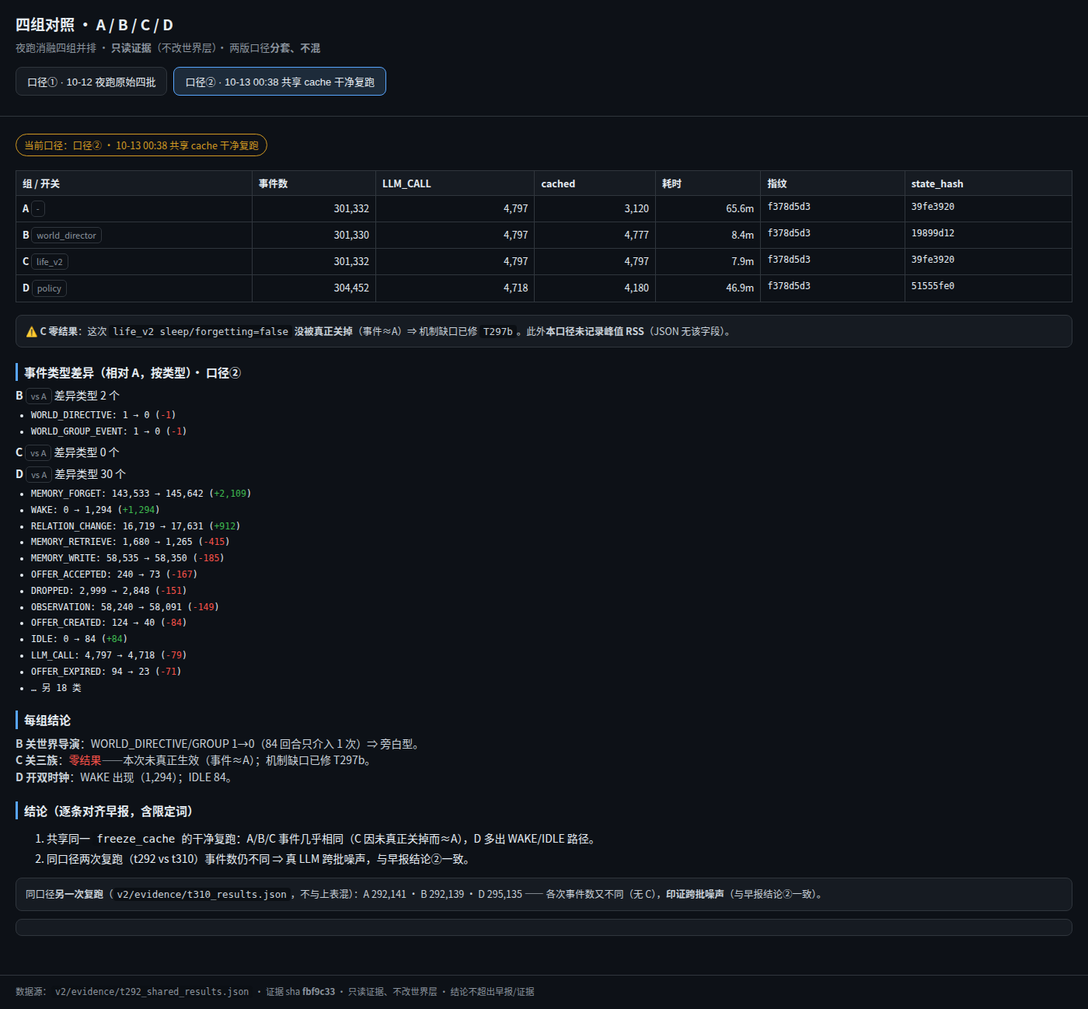
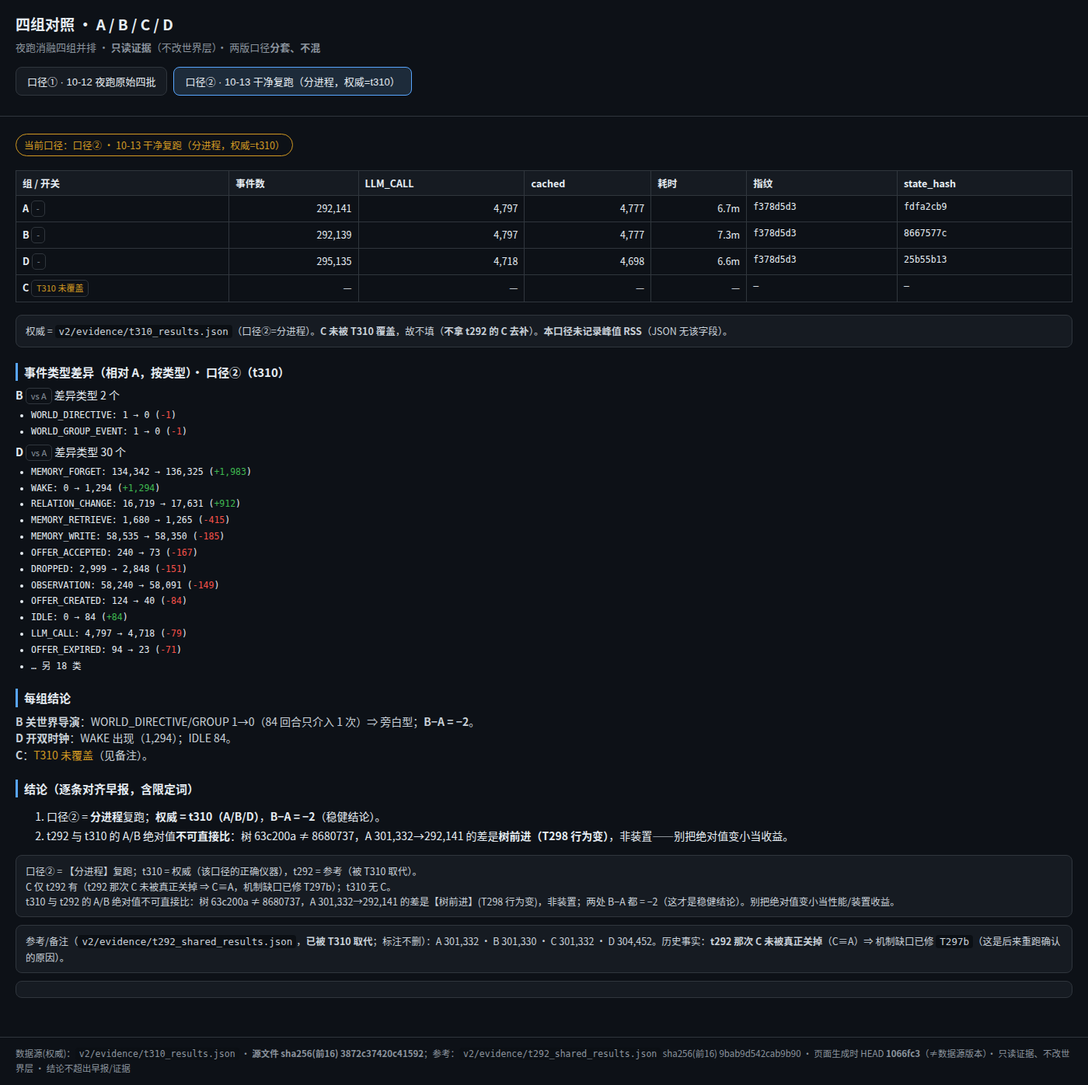
T343 [frontend-dev]: 批1修订v2 口径②主表换权威t310(C标未覆盖)+t292降参考+页脚数据源文件sha+重出PNG -- code/frontend/{fourgroups.html,tools/gen_fourgroups.py} v2/evidence/T343-fourgroups*.md v2/evidence/T343-fourgroups*.png

diff --git a/code/frontend/fourgroups.html b/code/frontend/fourgroups.html
@@ -48,7 +48,7 @@
 </main>
 <footer id="foot"></footer>
 <script>
-const DATA = {"d1": {"label": "口径① · 10-12 夜跑原始四批", "source": "v2/evidence/nightly-20261012-morning-report.md", "runtime": "各 80–90 分钟（19:01 起）", "rss_note": "峰值 RSS 来自早报 §1", "groups": {"A": {"name": "A 基线", "sw": "-", "status": "SUCCESS", "events": 301384, "llm": 4794, "rss": "383MB", "time": "80m", "fp": "f1ea31a3", "sh": "a8b6da39"}, "B": {"name": "B 关世界导演", "sw": "world_director.enabled=false", "status": "SUCCESS", "events": 301395, "llm": 4794, "rss": "436MB", "time": "80m", "fp": "a89546fd", "sh": "07046536"}, "C": {"name": "C 关三族", "sw": "life_v2 sleep/forgetting=false", "status": "SUCCESS", "events": 151968, "llm": 4794, "rss": "310MB", "time": "80m", "fp": "f8d3f0a8", "sh": "dd1c7906"}, "D": {"name": "D 开双时钟", "sw": "wake.enabled=true", "status": "SUCCESS", "events": 304607, "llm": 4718, "rss": "382MB", "time": "90m", "fp": "adaede05", "sh": "b7c21436"}}, "diffs": {"B": ["WORLD_DIRECTIVE 1→0、WORLD_GROUP_EVENT 1→0（84 回合只介入 1 次）", "PERSONA_DRIFT 0→9", "MEMORY_FORGET +4"], "C": ["事件 301,384 → 151,968（≈ 半）"], "D": ["（早报未逐类列出；见口径② 的同类对照）"]}, "diff_head": "类型差异（早报 §2 明示项；口径①未逐类全列）", "concl": {"A": "基线", "B": "旁白型：84 回合只介入 1 次，且两类在 replay 属 _NOOP_TYPES、不改世界状态 ⇒ 非 D3 要的『宏观群体事件』", "C": "★ 第一条真实消融效应：关睡眠/遗忘/人格三族 → 事件 ≈ 半", "D": "开双时钟（wake.enabled=true）"}, "notes": ["全部 provider=openai_compat、无 mock 混入；每批 rc=0。", "冻结 sha 6a5f14e；底座指纹 sha256:f1ea31a3…（= A 日志 WORLD_INIT）。"]}, "d2": {"label": "口径② · 10-13 00:38 共享 cache 干净复跑", "source": "v2/evidence/t292_shared_results.json", "groups": {"A": {"tag": "A", "override": {}, "events": 301332, "llm_calls": 4797, "cached": 3120, "providers": {"openai_compat": 4797}, "fingerprint": "sha256:f378d5d3eb0d4e726c9436d9ed82cc88706b441a3109e2fbb5878c6cf30afdf7", "secs": 3937.2, "state_hash": "sha256:39fe39207f8ed714191ed37c32cf7d63c93aa6c518e1cee95ac9f76b86e9462f", "chain_ok": true, "replay_parity": true, "WORLD_DIRECTIVE": 1, "WORLD_GROUP_EVENT": 1, "PERSONA_DRIFT": 0, "MEMORY_FORGET": 143533, "WAKE": 0, "IDLE": 0, "type_counts": {"ACTIVITY_COMPLETED": 540, "ACTIVITY_STARTED": 560, "AGENT_BORN": 20, "AGENT_DIED": 17, "AGENT_REVIVED": 5, "CONFLICT_RESOLVED": 44, "CONFLICT_STARTED": 44, "CONSUME": 167, "DEPOSIT": 18, "DROPPED": 2999, "EXCHANGE_SETTLED": 25, "GOAL_ACHIEVED": 28, "GOAL_PROGRESS": 250, "GOAL_SET": 39, "GROUP_CREATED": 69, "INIT_ENDOW": 40, "INTENT_REJECTED": 40, "INTEREST_CHARGED": 192, "LLM_CALL": 4797, "LLM_JUDGMENT": 1010, "LOAN_DEFAULT": 7, "LOAN_ISSUED": 17, "LOAN_REPAY": 40, "MARKET_TRADE": 23, "MEMORY_CONSOLIDATE": 2784, "MEMORY_FORGET": 143533, "MEMORY_REFLECT": 140, "MEMORY_RETRIEVE": 1680, "MEMORY_WRITE": 58535, "METABOLISM": 1577, "MONEY_BURNED": 40, "MONEY_MINTED": 3, "MSG_DM": 163, "MSG_GROUP": 8, "MSG_PUBLIC": 59, "NARRATIVE": 20, "NEED_UPDATE": 3399, "NORM_ADOPTED": 19, "NORM_PROPOSED": 19, "OBSERVATION": 58240, "OFFER_ACCEPTED": 240, "OFFER_COUNTERED": 10, "OFFER_CREATED": 124, "OFFER_EXPIRED": 94, "OFFER_REJECTED": 11, "PENALTY_APPLIED": 1, "PLACE_ARRIVED": 511, "PLACE_MOVE": 511, "PRODUCE": 167, "RANKING_EMITTED": 10, "RELATION_CHANGE": 16719, "RELATION_ENCOUNTER": 210, "REVIVE_FEE_PAID": 5, "ROLE_CHANGE": 9, "SCHEDULE_PLANNED": 20, "SCORE_POSTED": 80, "SERVICE_DELIVERED": 149, "SKILL_LEVEL_UP": 79, "SKILL_OUTPUT": 10, "SKILL_PRACTICE": 77, "SLEEP_COMPLETED": 140, "SLEEP_STARTED": 140, "STATE_CHANGE": 94, "TAG_EMITTED": 540, "TAX_LEVIED": 46, "TIME_MARK": 7, "TRANSFER": 31, "TURN_SEAL": 84, "WORLD_DIRECTIVE": 1, "WORLD_GROUP_EVENT": 1, "WORLD_INIT": 1}}, "B": {"tag": "B", "override": {"world_director": {"enabled": false}}, "events": 301330, "llm_calls": 4797, "cached": 4777, "providers": {"openai_compat": 4797}, "fingerprint": "sha256:f378d5d3eb0d4e726c9436d9ed82cc88706b441a3109e2fbb5878c6cf30afdf7", "secs": 502.8, "state_hash": "sha256:19899d121d98390850e4f5ddf9e67b899c6fe56eb6a0610dfc845a5d854b25ba", "chain_ok": true, "replay_parity": true, "WORLD_DIRECTIVE": 0, "WORLD_GROUP_EVENT": 0, "PERSONA_DRIFT": 0, "MEMORY_FORGET": 143533, "WAKE": 0, "IDLE": 0, "type_counts": {"ACTIVITY_COMPLETED": 540, "ACTIVITY_STARTED": 560, "AGENT_BORN": 20, "AGENT_DIED": 17, "AGENT_REVIVED": 5, "CONFLICT_RESOLVED": 44, "CONFLICT_STARTED": 44, "CONSUME": 167, "DEPOSIT": 18, "DROPPED": 2999, "EXCHANGE_SETTLED": 25, "GOAL_ACHIEVED": 28, "GOAL_PROGRESS": 250, "GOAL_SET": 39, "GROUP_CREATED": 69, "INIT_ENDOW": 40, "INTENT_REJECTED": 40, "INTEREST_CHARGED": 192, "LLM_CALL": 4797, "LLM_JUDGMENT": 1010, "LOAN_DEFAULT": 7, "LOAN_ISSUED": 17, "LOAN_REPAY": 40, "MARKET_TRADE": 23, "MEMORY_CONSOLIDATE": 2784, "MEMORY_FORGET": 143533, "MEMORY_REFLECT": 140, "MEMORY_RETRIEVE": 1680, "MEMORY_WRITE": 58535, "METABOLISM": 1577, "MONEY_BURNED": 40, "MONEY_MINTED": 3, "MSG_DM": 163, "MSG_GROUP": 8, "MSG_PUBLIC": 59, "NARRATIVE": 20, "NEED_UPDATE": 3399, "NORM_ADOPTED": 19, "NORM_PROPOSED": 19, "OBSERVATION": 58240, "OFFER_ACCEPTED": 240, "OFFER_COUNTERED": 10, "OFFER_CREATED": 124, "OFFER_EXPIRED": 94, "OFFER_REJECTED": 11, "PENALTY_APPLIED": 1, "PLACE_ARRIVED": 511, "PLACE_MOVE": 511, "PRODUCE": 167, "RANKING_EMITTED": 10, "RELATION_CHANGE": 16719, "RELATION_ENCOUNTER": 210, "REVIVE_FEE_PAID": 5, "ROLE_CHANGE": 9, "SCHEDULE_PLANNED": 20, "SCORE_POSTED": 80, "SERVICE_DELIVERED": 149, "SKILL_LEVEL_UP": 79, "SKILL_OUTPUT": 10, "SKILL_PRACTICE": 77, "SLEEP_COMPLETED": 140, "SLEEP_STARTED": 140, "STATE_CHANGE": 94, "TAG_EMITTED": 540, "TAX_LEVIED": 46, "TIME_MARK": 7, "TRANSFER": 31, "TURN_SEAL": 84, "WORLD_INIT": 1}}, "C": {"tag": "C", "override": {"life_v2": {"sleep": {"enabled": false}, "forgetting": {"enabled": false}}}, "events": 301332, "llm_calls": 4797, "cached": 4797, "providers": {"openai_compat": 4797}, "fingerprint": "sha256:f378d5d3eb0d4e726c9436d9ed82cc88706b441a3109e2fbb5878c6cf30afdf7", "secs": 472.4, "state_hash": "sha256:39fe39207f8ed714191ed37c32cf7d63c93aa6c518e1cee95ac9f76b86e9462f", "chain_ok": true, "replay_parity": true, "WORLD_DIRECTIVE": 1, "WORLD_GROUP_EVENT": 1, "PERSONA_DRIFT": 0, "MEMORY_FORGET": 143533, "WAKE": 0, "IDLE": 0, "type_counts": {"ACTIVITY_COMPLETED": 540, "ACTIVITY_STARTED": 560, "AGENT_BORN": 20, "AGENT_DIED": 17, "AGENT_REVIVED": 5, "CONFLICT_RESOLVED": 44, "CONFLICT_STARTED": 44, "CONSUME": 167, "DEPOSIT": 18, "DROPPED": 2999, "EXCHANGE_SETTLED": 25, "GOAL_ACHIEVED": 28, "GOAL_PROGRESS": 250, "GOAL_SET": 39, "GROUP_CREATED": 69, "INIT_ENDOW": 40, "INTENT_REJECTED": 40, "INTEREST_CHARGED": 192, "LLM_CALL": 4797, "LLM_JUDGMENT": 1010, "LOAN_DEFAULT": 7, "LOAN_ISSUED": 17, "LOAN_REPAY": 40, "MARKET_TRADE": 23, "MEMORY_CONSOLIDATE": 2784, "MEMORY_FORGET": 143533, "MEMORY_REFLECT": 140, "MEMORY_RETRIEVE": 1680, "MEMORY_WRITE": 58535, "METABOLISM": 1577, "MONEY_BURNED": 40, "MONEY_MINTED": 3, "MSG_DM": 163, "MSG_GROUP": 8, "MSG_PUBLIC": 59, "NARRATIVE": 20, "NEED_UPDATE": 3399, "NORM_ADOPTED": 19, "NORM_PROPOSED": 19, "OBSERVATION": 58240, "OFFER_ACCEPTED": 240, "OFFER_COUNTERED": 10, "OFFER_CREATED": 124, "OFFER_EXPIRED": 94, "OFFER_REJECTED": 11, "PENALTY_APPLIED": 1, "PLACE_ARRIVED": 511, "PLACE_MOVE": 511, "PRODUCE": 167, "RANKING_EMITTED": 10, "RELATION_CHANGE": 16719, "RELATION_ENCOUNTER": 210, "REVIVE_FEE_PAID": 5, "ROLE_CHANGE": 9, "SCHEDULE_PLANNED": 20, "SCORE_POSTED": 80, "SERVICE_DELIVERED": 149, "SKILL_LEVEL_UP": 79, "SKILL_OUTPUT": 10, "SKILL_PRACTICE": 77, "SLEEP_COMPLETED": 140, "SLEEP_STARTED": 140, "STATE_CHANGE": 94, "TAG_EMITTED": 540, "TAX_LEVIED": 46, "TIME_MARK": 7, "TRANSFER": 31, "TURN_SEAL": 84, "WORLD_DIRECTIVE": 1, "WORLD_GROUP_EVENT": 1, "WORLD_INIT": 1}}, "D": {"tag": "D", "override": {"policy": {"wake": {"enabled": true}}}, "events": 304452, "llm_calls": 4718, "cached": 4180, "providers": {"openai_compat": 4718}, "fingerprint": "sha256:f378d5d3eb0d4e726c9436d9ed82cc88706b441a3109e2fbb5878c6cf30afdf7", "secs": 2815.3, "state_hash": "sha256:51555fe052cb15f4fb6377681602831b4a4b69de1a69b6bf697637da10daa067", "chain_ok": true, "replay_parity": true, "WORLD_DIRECTIVE": 1, "WORLD_GROUP_EVENT": 1, "PERSONA_DRIFT": 0, "MEMORY_FORGET": 145642, "WAKE": 1294, "IDLE": 84, "type_counts": {"ACTIVITY_COMPLETED": 540, "ACTIVITY_STARTED": 560, "AGENT_BORN": 20, "AGENT_DIED": 17, "AGENT_REVIVED": 6, "CONFLICT_RESOLVED": 44, "CONFLICT_STARTED": 44, "CONSUME": 166, "DEPOSIT": 18, "DROPPED": 2848, "EXCHANGE_SETTLED": 7, "GOAL_ACHIEVED": 28, "GOAL_PROGRESS": 250, "GOAL_SET": 39, "GROUP_CREATED": 69, "IDLE": 84, "INIT_ENDOW": 38, "INTENT_REJECTED": 37, "INTEREST_CHARGED": 222, "LLM_CALL": 4718, "LLM_JUDGMENT": 1020, "LOAN_DEFAULT": 8, "LOAN_ISSUED": 18, "LOAN_REPAY": 38, "MARKET_TRADE": 23, "MEMORY_CONSOLIDATE": 2782, "MEMORY_FORGET": 145642, "MEMORY_REFLECT": 140, "MEMORY_RETRIEVE": 1265, "MEMORY_WRITE": 58350, "METABOLISM": 1587, "MONEY_BURNED": 38, "MONEY_MINTED": 3, "MSG_DM": 163, "MSG_GROUP": 11, "MSG_PUBLIC": 59, "NARRATIVE": 20, "NEED_UPDATE": 3399, "NORM_ADOPTED": 19, "NORM_PROPOSED": 19, "OBSERVATION": 58091, "OFFER_ACCEPTED": 73, "OFFER_COUNTERED": 10, "OFFER_CREATED": 40, "OFFER_EXPIRED": 23, "OFFER_REJECTED": 11, "PLACE_ARRIVED": 511, "PLACE_MOVE": 511, "PRODUCE": 166, "RANKING_EMITTED": 10, "RELATION_CHANGE": 17631, "RELATION_ENCOUNTER": 210, "REVIVE_FEE_PAID": 6, "ROLE_CHANGE": 9, "SCHEDULE_PLANNED": 20, "SCORE_POSTED": 80, "SERVICE_DELIVERED": 149, "SKILL_LEVEL_UP": 79, "SKILL_OUTPUT": 10, "SKILL_PRACTICE": 77, "SLEEP_COMPLETED": 140, "SLEEP_STARTED": 140, "STATE_CHANGE": 91, "TAG_EMITTED": 540, "TAX_LEVIED": 46, "TIME_MARK": 7, "TRANSFER": 31, "TURN_SEAL": 84, "WAKE": 1294, "WORLD_DIRECTIVE": 1, "WORLD_GROUP_EVENT": 1, "WORLD_INIT": 1}}}, "t310_source": "v2/evidence/t310_results.json", "t310": {"A": {"tag": "A", "pid": 1466483, "events": 292141, "llm_calls": 4797, "cached": 4777, "fingerprint": "sha256:f378d5d3eb0d4e726c9436d9ed82cc88706b441a3109e2fbb5878c6cf30afdf7", "secs": 401.8, "state_hash": "sha256:fdfa2cb9e37be1dbbbe468ca2c8069a93b7e236484ef6bd3956562bc11a47a65", "WORLD_DIRECTIVE": 1, "WORLD_GROUP_EVENT": 1, "type_counts": {"ACTIVITY_COMPLETED": 540, "ACTIVITY_STARTED": 560, "AGENT_BORN": 20, "AGENT_DIED": 17, "AGENT_REVIVED": 5, "CONFLICT_RESOLVED": 44, "CONFLICT_STARTED": 44, "CONSUME": 167, "DEPOSIT": 18, "DROPPED": 2999, "EXCHANGE_SETTLED": 25, "GOAL_ACHIEVED": 28, "GOAL_PROGRESS": 250, "GOAL_SET": 39, "GROUP_CREATED": 69, "INIT_ENDOW": 40, "INTENT_REJECTED": 40, "INTEREST_CHARGED": 192, "LLM_CALL": 4797, "LLM_JUDGMENT": 1010, "LOAN_DEFAULT": 7, "LOAN_ISSUED": 17, "LOAN_REPAY": 40, "MARKET_TRADE": 23, "MEMORY_CONSOLIDATE": 2784, "MEMORY_FORGET": 134342, "MEMORY_REFLECT": 140, "MEMORY_RETRIEVE": 1680, "MEMORY_WRITE": 58535, "METABOLISM": 1577, "MONEY_BURNED": 40, "MONEY_MINTED": 3, "MSG_DM": 163, "MSG_GROUP": 8, "MSG_PUBLIC": 59, "NARRATIVE": 20, "NEED_UPDATE": 3399, "NORM_ADOPTED": 19, "NORM_PROPOSED": 19, "OBSERVATION": 58240, "OFFER_ACCEPTED": 240, "OFFER_COUNTERED": 10, "OFFER_CREATED": 124, "OFFER_EXPIRED": 94, "OFFER_REJECTED": 11, "PENALTY_APPLIED": 1, "PLACE_ARRIVED": 511, "PLACE_MOVE": 511, "PRODUCE": 167, "RANKING_EMITTED": 10, "RELATION_CHANGE": 16719, "RELATION_ENCOUNTER": 210, "REVIVE_FEE_PAID": 5, "ROLE_CHANGE": 9, "SCHEDULE_PLANNED": 20, "SCORE_POSTED": 80, "SERVICE_DELIVERED": 149, "SKILL_LEVEL_UP": 79, "SKILL_OUTPUT": 10, "SKILL_PRACTICE": 77, "SLEEP_COMPLETED": 140, "SLEEP_STARTED": 140, "STATE_CHANGE": 94, "TAG_EMITTED": 540, "TAX_LEVIED": 46, "TIME_MARK": 7, "TRANSFER": 31, "TURN_SEAL": 84, "WORLD_DIRECTIVE": 1, "WORLD_GROUP_EVENT": 1, "WORLD_INIT": 1}}, "B": {"tag": "B", "pid": 1482981, "events": 292139, "llm_calls": 4797, "cached": 4777, "fingerprint": "sha256:f378d5d3eb0d4e726c9436d9ed82cc88706b441a3109e2fbb5878c6cf30afdf7", "secs": 437.6, "state_hash": "sha256:8667577c9f112d3433a91e1101914c8283f76f973546adf6a1b2fe7498c2d453", "WORLD_DIRECTIVE": 0, "WORLD_GROUP_EVENT": 0, "type_counts": {"ACTIVITY_COMPLETED": 540, "ACTIVITY_STARTED": 560, "AGENT_BORN": 20, "AGENT_DIED": 17, "AGENT_REVIVED": 5, "CONFLICT_RESOLVED": 44, "CONFLICT_STARTED": 44, "CONSUME": 167, "DEPOSIT": 18, "DROPPED": 2999, "EXCHANGE_SETTLED": 25, "GOAL_ACHIEVED": 28, "GOAL_PROGRESS": 250, "GOAL_SET": 39, "GROUP_CREATED": 69, "INIT_ENDOW": 40, "INTENT_REJECTED": 40, "INTEREST_CHARGED": 192, "LLM_CALL": 4797, "LLM_JUDGMENT": 1010, "LOAN_DEFAULT": 7, "LOAN_ISSUED": 17, "LOAN_REPAY": 40, "MARKET_TRADE": 23, "MEMORY_CONSOLIDATE": 2784, "MEMORY_FORGET": 134342, "MEMORY_REFLECT": 140, "MEMORY_RETRIEVE": 1680, "MEMORY_WRITE": 58535, "METABOLISM": 1577, "MONEY_BURNED": 40, "MONEY_MINTED": 3, "MSG_DM": 163, "MSG_GROUP": 8, "MSG_PUBLIC": 59, "NARRATIVE": 20, "NEED_UPDATE": 3399, "NORM_ADOPTED": 19, "NORM_PROPOSED": 19, "OBSERVATION": 58240, "OFFER_ACCEPTED": 240, "OFFER_COUNTERED": 10, "OFFER_CREATED": 124, "OFFER_EXPIRED": 94, "OFFER_REJECTED": 11, "PENALTY_APPLIED": 1, "PLACE_ARRIVED": 511, "PLACE_MOVE": 511, "PRODUCE": 167, "RANKING_EMITTED": 10, "RELATION_CHANGE": 16719, "RELATION_ENCOUNTER": 210, "REVIVE_FEE_PAID": 5, "ROLE_CHANGE": 9, "SCHEDULE_PLANNED": 20, "SCORE_POSTED": 80, "SERVICE_DELIVERED": 149, "SKILL_LEVEL_UP": 79, "SKILL_OUTPUT": 10, "SKILL_PRACTICE": 77, "SLEEP_COMPLETED": 140, "SLEEP_STARTED": 140, "STATE_CHANGE": 94, "TAG_EMITTED": 540, "TAX_LEVIED": 46, "TIME_MARK": 7, "TRANSFER": 31, "TURN_SEAL": 84, "WORLD_INIT": 1}}, "D": {"tag": "D", "pid": 1501922, "events": 295135, "llm_calls": 4718, "cached": 4698, "fingerprint": "sha256:f378d5d3eb0d4e726c9436d9ed82cc88706b441a3109e2fbb5878c6cf30afdf7", "secs": 394.0, "state_hash": "sha256:25b55b130787897903d8174a02bb34cb4cbcc0bd28675b996a88563c3e81c181", "WORLD_DIRECTIVE": 1, "WORLD_GROUP_EVENT": 1, "type_counts": {"ACTIVITY_COMPLETED": 540, "ACTIVITY_STARTED": 560, "AGENT_BORN": 20, "AGENT_DIED": 17, "AGENT_REVIVED": 6, "CONFLICT_RESOLVED": 44, "CONFLICT_STARTED": 44, "CONSUME": 166, "DEPOSIT": 18, "DROPPED": 2848, "EXCHANGE_SETTLED": 7, "GOAL_ACHIEVED": 28, "GOAL_PROGRESS": 250, "GOAL_SET": 39, "GROUP_CREATED": 69, "IDLE": 84, "INIT_ENDOW": 38, "INTENT_REJECTED": 37, "INTEREST_CHARGED": 222, "LLM_CALL": 4718, "LLM_JUDGMENT": 1020, "LOAN_DEFAULT": 8, "LOAN_ISSUED": 18, "LOAN_REPAY": 38, "MARKET_TRADE": 23, "MEMORY_CONSOLIDATE": 2782, "MEMORY_FORGET": 136325, "MEMORY_REFLECT": 140, "MEMORY_RETRIEVE": 1265, "MEMORY_WRITE": 58350, "METABOLISM": 1587, "MONEY_BURNED": 38, "MONEY_MINTED": 3, "MSG_DM": 163, "MSG_GROUP": 11, "MSG_PUBLIC": 59, "NARRATIVE": 20, "NEED_UPDATE": 3399, "NORM_ADOPTED": 19, "NORM_PROPOSED": 19, "OBSERVATION": 58091, "OFFER_ACCEPTED": 73, "OFFER_COUNTERED": 10, "OFFER_CREATED": 40, "OFFER_EXPIRED": 23, "OFFER_REJECTED": 11, "PLACE_ARRIVED": 511, "PLACE_MOVE": 511, "PRODUCE": 166, "RANKING_EMITTED": 10, "RELATION_CHANGE": 17631, "RELATION_ENCOUNTER": 210, "REVIVE_FEE_PAID": 6, "ROLE_CHANGE": 9, "SCHEDULE_PLANNED": 20, "SCORE_POSTED": 80, "SERVICE_DELIVERED": 149, "SKILL_LEVEL_UP": 79, "SKILL_OUTPUT": 10, "SKILL_PRACTICE": 77, "SLEEP_COMPLETED": 140, "SLEEP_STARTED": 140, "STATE_CHANGE": 91, "TAG_EMITTED": 540, "TAX_LEVIED": 46, "TIME_MARK": 7, "TRANSFER": 31, "TURN_SEAL": 84, "WAKE": 1294, "WORLD_DIRECTIVE": 1, "WORLD_GROUP_EVENT": 1, "WORLD_INIT": 1}}}}, "sha": "fbf9c33"};
+const DATA = {"d1": {"label": "口径① · 10-12 夜跑原始四批", "source": "v2/evidence/nightly-20261012-morning-report.md", "runtime": "各 80–90 分钟（19:01 起）", "rss_note": "峰值 RSS 来自早报 §1", "groups": {"A": {"name": "A 基线", "sw": "-", "status": "SUCCESS", "events": 301384, "llm": 4794, "rss": "383MB", "time": "80m", "fp": "f1ea31a3", "sh": "a8b6da39"}, "B": {"name": "B 关世界导演", "sw": "world_director.enabled=false", "status": "SUCCESS", "events": 301395, "llm": 4794, "rss": "436MB", "time": "80m", "fp": "a89546fd", "sh": "07046536"}, "C": {"name": "C 关三族", "sw": "life_v2 sleep/forgetting=false", "status": "SUCCESS", "events": 151968, "llm": 4794, "rss": "310MB", "time": "80m", "fp": "f8d3f0a8", "sh": "dd1c7906"}, "D": {"name": "D 开双时钟", "sw": "wake.enabled=true", "status": "SUCCESS", "events": 304607, "llm": 4718, "rss": "382MB", "time": "90m", "fp": "adaede05", "sh": "b7c21436"}}, "diffs": {"B": ["WORLD_DIRECTIVE 1→0、WORLD_GROUP_EVENT 1→0（84 回合只介入 1 次）", "PERSONA_DRIFT 0→9", "MEMORY_FORGET +4"], "C": ["事件 301,384 → 151,968（≈ 半）"], "D": ["（早报未逐类列出；见口径② 的同类对照）"]}, "diff_head": "类型差异（早报 §2 明示项；口径①未逐类全列）", "concl": {"A": "基线", "B": "旁白型：84 回合只介入 1 次，且两类在 replay 属 _NOOP_TYPES、不改世界状态 ⇒ 非 D3 要的『宏观群体事件』", "C": "★ 第一条真实消融效应：关睡眠/遗忘/人格三族 → 事件 ≈ 半", "D": "开双时钟（wake.enabled=true）"}, "notes": ["全部 provider=openai_compat、无 mock 混入；每批 rc=0。", "冻结 sha 6a5f14e；底座指纹 sha256:f1ea31a3…（= A 日志 WORLD_INIT）。"]}, "d2": {"label": "口径② · 10-13 干净复跑（分进程，权威=t310）", "source": "v2/evidence/t310_results.json", "groups": {"A": {"tag": "A", "pid": 1466483, "events": 292141, "llm_calls": 4797, "cached": 4777, "fingerprint": "sha256:f378d5d3eb0d4e726c9436d9ed82cc88706b441a3109e2fbb5878c6cf30afdf7", "secs": 401.8, "state_hash": "sha256:fdfa2cb9e37be1dbbbe468ca2c8069a93b7e236484ef6bd3956562bc11a47a65", "WORLD_DIRECTIVE": 1, "WORLD_GROUP_EVENT": 1, "type_counts": {"ACTIVITY_COMPLETED": 540, "ACTIVITY_STARTED": 560, "AGENT_BORN": 20, "AGENT_DIED": 17, "AGENT_REVIVED": 5, "CONFLICT_RESOLVED": 44, "CONFLICT_STARTED": 44, "CONSUME": 167, "DEPOSIT": 18, "DROPPED": 2999, "EXCHANGE_SETTLED": 25, "GOAL_ACHIEVED": 28, "GOAL_PROGRESS": 250, "GOAL_SET": 39, "GROUP_CREATED": 69, "INIT_ENDOW": 40, "INTENT_REJECTED": 40, "INTEREST_CHARGED": 192, "LLM_CALL": 4797, "LLM_JUDGMENT": 1010, "LOAN_DEFAULT": 7, "LOAN_ISSUED": 17, "LOAN_REPAY": 40, "MARKET_TRADE": 23, "MEMORY_CONSOLIDATE": 2784, "MEMORY_FORGET": 134342, "MEMORY_REFLECT": 140, "MEMORY_RETRIEVE": 1680, "MEMORY_WRITE": 58535, "METABOLISM": 1577, "MONEY_BURNED": 40, "MONEY_MINTED": 3, "MSG_DM": 163, "MSG_GROUP": 8, "MSG_PUBLIC": 59, "NARRATIVE": 20, "NEED_UPDATE": 3399, "NORM_ADOPTED": 19, "NORM_PROPOSED": 19, "OBSERVATION": 58240, "OFFER_ACCEPTED": 240, "OFFER_COUNTERED": 10, "OFFER_CREATED": 124, "OFFER_EXPIRED": 94, "OFFER_REJECTED": 11, "PENALTY_APPLIED": 1, "PLACE_ARRIVED": 511, "PLACE_MOVE": 511, "PRODUCE": 167, "RANKING_EMITTED": 10, "RELATION_CHANGE": 16719, "RELATION_ENCOUNTER": 210, "REVIVE_FEE_PAID": 5, "ROLE_CHANGE": 9, "SCHEDULE_PLANNED": 20, "SCORE_POSTED": 80, "SERVICE_DELIVERED": 149, "SKILL_LEVEL_UP": 79, "SKILL_OUTPUT": 10, "SKILL_PRACTICE": 77, "SLEEP_COMPLETED": 140, "SLEEP_STARTED": 140, "STATE_CHANGE": 94, "TAG_EMITTED": 540, "TAX_LEVIED": 46, "TIME_MARK": 7, "TRANSFER": 31, "TURN_SEAL": 84, "WORLD_DIRECTIVE": 1, "WORLD_GROUP_EVENT": 1, "WORLD_INIT": 1}}, "B": {"tag": "B", "pid": 1482981, "events": 292139, "llm_calls": 4797, "cached": 4777, "fingerprint": "sha256:f378d5d3eb0d4e726c9436d9ed82cc88706b441a3109e2fbb5878c6cf30afdf7", "secs": 437.6, "state_hash": "sha256:8667577c9f112d3433a91e1101914c8283f76f973546adf6a1b2fe7498c2d453", "WORLD_DIRECTIVE": 0, "WORLD_GROUP_EVENT": 0, "type_counts": {"ACTIVITY_COMPLETED": 540, "ACTIVITY_STARTED": 560, "AGENT_BORN": 20, "AGENT_DIED": 17, "AGENT_REVIVED": 5, "CONFLICT_RESOLVED": 44, "CONFLICT_STARTED": 44, "CONSUME": 167, "DEPOSIT": 18, "DROPPED": 2999, "EXCHANGE_SETTLED": 25, "GOAL_ACHIEVED": 28, "GOAL_PROGRESS": 250, "GOAL_SET": 39, "GROUP_CREATED": 69, "INIT_ENDOW": 40, "INTENT_REJECTED": 40, "INTEREST_CHARGED": 192, "LLM_CALL": 4797, "LLM_JUDGMENT": 1010, "LOAN_DEFAULT": 7, "LOAN_ISSUED": 17, "LOAN_REPAY": 40, "MARKET_TRADE": 23, "MEMORY_CONSOLIDATE": 2784, "MEMORY_FORGET": 134342, "MEMORY_REFLECT": 140, "MEMORY_RETRIEVE": 1680, "MEMORY_WRITE": 58535, "METABOLISM": 1577, "MONEY_BURNED": 40, "MONEY_MINTED": 3, "MSG_DM": 163, "MSG_GROUP": 8, "MSG_PUBLIC": 59, "NARRATIVE": 20, "NEED_UPDATE": 3399, "NORM_ADOPTED": 19, "NORM_PROPOSED": 19, "OBSERVATION": 58240, "OFFER_ACCEPTED": 240, "OFFER_COUNTERED": 10, "OFFER_CREATED": 124, "OFFER_EXPIRED": 94, "OFFER_REJECTED": 11, "PENALTY_APPLIED": 1, "PLACE_ARRIVED": 511, "PLACE_MOVE": 511, "PRODUCE": 167, "RANKING_EMITTED": 10, "RELATION_CHANGE": 16719, "RELATION_ENCOUNTER": 210, "REVIVE_FEE_PAID": 5, "ROLE_CHANGE": 9, "SCHEDULE_PLANNED": 20, "SCORE_POSTED": 80, "SERVICE_DELIVERED": 149, "SKILL_LEVEL_UP": 79, "SKILL_OUTPUT": 10, "SKILL_PRACTICE": 77, "SLEEP_COMPLETED": 140, "SLEEP_STARTED": 140, "STATE_CHANGE": 94, "TAG_EMITTED": 540, "TAX_LEVIED": 46, "TIME_MARK": 7, "TRANSFER": 31, "TURN_SEAL": 84, "WORLD_INIT": 1}}, "D": {"tag": "D", "pid": 1501922, "events": 295135, "llm_calls": 4718, "cached": 4698, "fingerprint": "sha256:f378d5d3eb0d4e726c9436d9ed82cc88706b441a3109e2fbb5878c6cf30afdf7", "secs": 394.0, "state_hash": "sha256:25b55b130787897903d8174a02bb34cb4cbcc0bd28675b996a88563c3e81c181", "WORLD_DIRECTIVE": 1, "WORLD_GROUP_EVENT": 1, "type_counts": {"ACTIVITY_COMPLETED": 540, "ACTIVITY_STARTED": 560, "AGENT_BORN": 20, "AGENT_DIED": 17, "AGENT_REVIVED": 6, "CONFLICT_RESOLVED": 44, "CONFLICT_STARTED": 44, "CONSUME": 166, "DEPOSIT": 18, "DROPPED": 2848, "EXCHANGE_SETTLED": 7, "GOAL_ACHIEVED": 28, "GOAL_PROGRESS": 250, "GOAL_SET": 39, "GROUP_CREATED": 69, "IDLE": 84, "INIT_ENDOW": 38, "INTENT_REJECTED": 37, "INTEREST_CHARGED": 222, "LLM_CALL": 4718, "LLM_JUDGMENT": 1020, "LOAN_DEFAULT": 8, "LOAN_ISSUED": 18, "LOAN_REPAY": 38, "MARKET_TRADE": 23, "MEMORY_CONSOLIDATE": 2782, "MEMORY_FORGET": 136325, "MEMORY_REFLECT": 140, "MEMORY_RETRIEVE": 1265, "MEMORY_WRITE": 58350, "METABOLISM": 1587, "MONEY_BURNED": 38, "MONEY_MINTED": 3, "MSG_DM": 163, "MSG_GROUP": 11, "MSG_PUBLIC": 59, "NARRATIVE": 20, "NEED_UPDATE": 3399, "NORM_ADOPTED": 19, "NORM_PROPOSED": 19, "OBSERVATION": 58091, "OFFER_ACCEPTED": 73, "OFFER_COUNTERED": 10, "OFFER_CREATED": 40, "OFFER_EXPIRED": 23, "OFFER_REJECTED": 11, "PLACE_ARRIVED": 511, "PLACE_MOVE": 511, "PRODUCE": 166, "RANKING_EMITTED": 10, "RELATION_CHANGE": 17631, "RELATION_ENCOUNTER": 210, "REVIVE_FEE_PAID": 6, "ROLE_CHANGE": 9, "SCHEDULE_PLANNED": 20, "SCORE_POSTED": 80, "SERVICE_DELIVERED": 149, "SKILL_LEVEL_UP": 79, "SKILL_OUTPUT": 10, "SKILL_PRACTICE": 77, "SLEEP_COMPLETED": 140, "SLEEP_STARTED": 140, "STATE_CHANGE": 91, "TAG_EMITTED": 540, "TAX_LEVIED": 46, "TIME_MARK": 7, "TRANSFER": 31, "TURN_SEAL": 84, "WAKE": 1294, "WORLD_DIRECTIVE": 1, "WORLD_GROUP_EVENT": 1, "WORLD_INIT": 1}}}, "aux_source": "v2/evidence/t292_shared_results.json", "aux": {"A": {"tag": "A", "override": {}, "events": 301332, "llm_calls": 4797, "cached": 3120, "providers": {"openai_compat": 4797}, "fingerprint": "sha256:f378d5d3eb0d4e726c9436d9ed82cc88706b441a3109e2fbb5878c6cf30afdf7", "secs": 3937.2, "state_hash": "sha256:39fe39207f8ed714191ed37c32cf7d63c93aa6c518e1cee95ac9f76b86e9462f", "chain_ok": true, "replay_parity": true, "WORLD_DIRECTIVE": 1, "WORLD_GROUP_EVENT": 1, "PERSONA_DRIFT": 0, "MEMORY_FORGET": 143533, "WAKE": 0, "IDLE": 0, "type_counts": {"ACTIVITY_COMPLETED": 540, "ACTIVITY_STARTED": 560, "AGENT_BORN": 20, "AGENT_DIED": 17, "AGENT_REVIVED": 5, "CONFLICT_RESOLVED": 44, "CONFLICT_STARTED": 44, "CONSUME": 167, "DEPOSIT": 18, "DROPPED": 2999, "EXCHANGE_SETTLED": 25, "GOAL_ACHIEVED": 28, "GOAL_PROGRESS": 250, "GOAL_SET": 39, "GROUP_CREATED": 69, "INIT_ENDOW": 40, "INTENT_REJECTED": 40, "INTEREST_CHARGED": 192, "LLM_CALL": 4797, "LLM_JUDGMENT": 1010, "LOAN_DEFAULT": 7, "LOAN_ISSUED": 17, "LOAN_REPAY": 40, "MARKET_TRADE": 23, "MEMORY_CONSOLIDATE": 2784, "MEMORY_FORGET": 143533, "MEMORY_REFLECT": 140, "MEMORY_RETRIEVE": 1680, "MEMORY_WRITE": 58535, "METABOLISM": 1577, "MONEY_BURNED": 40, "MONEY_MINTED": 3, "MSG_DM": 163, "MSG_GROUP": 8, "MSG_PUBLIC": 59, "NARRATIVE": 20, "NEED_UPDATE": 3399, "NORM_ADOPTED": 19, "NORM_PROPOSED": 19, "OBSERVATION": 58240, "OFFER_ACCEPTED": 240, "OFFER_COUNTERED": 10, "OFFER_CREATED": 124, "OFFER_EXPIRED": 94, "OFFER_REJECTED": 11, "PENALTY_APPLIED": 1, "PLACE_ARRIVED": 511, "PLACE_MOVE": 511, "PRODUCE": 167, "RANKING_EMITTED": 10, "RELATION_CHANGE": 16719, "RELATION_ENCOUNTER": 210, "REVIVE_FEE_PAID": 5, "ROLE_CHANGE": 9, "SCHEDULE_PLANNED": 20, "SCORE_POSTED": 80, "SERVICE_DELIVERED": 149, "SKILL_LEVEL_UP": 79, "SKILL_OUTPUT": 10, "SKILL_PRACTICE": 77, "SLEEP_COMPLETED": 140, "SLEEP_STARTED": 140, "STATE_CHANGE": 94, "TAG_EMITTED": 540, "TAX_LEVIED": 46, "TIME_MARK": 7, "TRANSFER": 31, "TURN_SEAL": 84, "WORLD_DIRECTIVE": 1, "WORLD_GROUP_EVENT": 1, "WORLD_INIT": 1}}, "B": {"tag": "B", "override": {"world_director": {"enabled": false}}, "events": 301330, "llm_calls": 4797, "cached": 4777, "providers": {"openai_compat": 4797}, "fingerprint": "sha256:f378d5d3eb0d4e726c9436d9ed82cc88706b441a3109e2fbb5878c6cf30afdf7", "secs": 502.8, "state_hash": "sha256:19899d121d98390850e4f5ddf9e67b899c6fe56eb6a0610dfc845a5d854b25ba", "chain_ok": true, "replay_parity": true, "WORLD_DIRECTIVE": 0, "WORLD_GROUP_EVENT": 0, "PERSONA_DRIFT": 0, "MEMORY_FORGET": 143533, "WAKE": 0, "IDLE": 0, "type_counts": {"ACTIVITY_COMPLETED": 540, "ACTIVITY_STARTED": 560, "AGENT_BORN": 20, "AGENT_DIED": 17, "AGENT_REVIVED": 5, "CONFLICT_RESOLVED": 44, "CONFLICT_STARTED": 44, "CONSUME": 167, "DEPOSIT": 18, "DROPPED": 2999, "EXCHANGE_SETTLED": 25, "GOAL_ACHIEVED": 28, "GOAL_PROGRESS": 250, "GOAL_SET": 39, "GROUP_CREATED": 69, "INIT_ENDOW": 40, "INTENT_REJECTED": 40, "INTEREST_CHARGED": 192, "LLM_CALL": 4797, "LLM_JUDGMENT": 1010, "LOAN_DEFAULT": 7, "LOAN_ISSUED": 17, "LOAN_REPAY": 40, "MARKET_TRADE": 23, "MEMORY_CONSOLIDATE": 2784, "MEMORY_FORGET": 143533, "MEMORY_REFLECT": 140, "MEMORY_RETRIEVE": 1680, "MEMORY_WRITE": 58535, "METABOLISM": 1577, "MONEY_BURNED": 40, "MONEY_MINTED": 3, "MSG_DM": 163, "MSG_GROUP": 8, "MSG_PUBLIC": 59, "NARRATIVE": 20, "NEED_UPDATE": 3399, "NORM_ADOPTED": 19, "NORM_PROPOSED": 19, "OBSERVATION": 58240, "OFFER_ACCEPTED": 240, "OFFER_COUNTERED": 10, "OFFER_CREATED": 124, "OFFER_EXPIRED": 94, "OFFER_REJECTED": 11, "PENALTY_APPLIED": 1, "PLACE_ARRIVED": 511, "PLACE_MOVE": 511, "PRODUCE": 167, "RANKING_EMITTED": 10, "RELATION_CHANGE": 16719, "RELATION_ENCOUNTER": 210, "REVIVE_FEE_PAID": 5, "ROLE_CHANGE": 9, "SCHEDULE_PLANNED": 20, "SCORE_POSTED": 80, "SERVICE_DELIVERED": 149, "SKILL_LEVEL_UP": 79, "SKILL_OUTPUT": 10, "SKILL_PRACTICE": 77, "SLEEP_COMPLETED": 140, "SLEEP_STARTED": 140, "STATE_CHANGE": 94, "TAG_EMITTED": 540, "TAX_LEVIED": 46, "TIME_MARK": 7, "TRANSFER": 31, "TURN_SEAL": 84, "WORLD_INIT": 1}}, "C": {"tag": "C", "override": {"life_v2": {"sleep": {"enabled": false}, "forgetting": {"enabled": false}}}, "events": 301332, "llm_calls": 4797, "cached": 4797, "providers": {"openai_compat": 4797}, "fingerprint": "sha256:f378d5d3eb0d4e726c9436d9ed82cc88706b441a3109e2fbb5878c6cf30afdf7", "secs": 472.4, "state_hash": "sha256:39fe39207f8ed714191ed37c32cf7d63c93aa6c518e1cee95ac9f76b86e9462f", "chain_ok": true, "replay_parity": true, "WORLD_DIRECTIVE": 1, "WORLD_GROUP_EVENT": 1, "PERSONA_DRIFT": 0, "MEMORY_FORGET": 143533, "WAKE": 0, "IDLE": 0, "type_counts": {"ACTIVITY_COMPLETED": 540, "ACTIVITY_STARTED": 560, "AGENT_BORN": 20, "AGENT_DIED": 17, "AGENT_REVIVED": 5, "CONFLICT_RESOLVED": 44, "CONFLICT_STARTED": 44, "CONSUME": 167, "DEPOSIT": 18, "DROPPED": 2999, "EXCHANGE_SETTLED": 25, "GOAL_ACHIEVED": 28, "GOAL_PROGRESS": 250, "GOAL_SET": 39, "GROUP_CREATED": 69, "INIT_ENDOW": 40, "INTENT_REJECTED": 40, "INTEREST_CHARGED": 192, "LLM_CALL": 4797, "LLM_JUDGMENT": 1010, "LOAN_DEFAULT": 7, "LOAN_ISSUED": 17, "LOAN_REPAY": 40, "MARKET_TRADE": 23, "MEMORY_CONSOLIDATE": 2784, "MEMORY_FORGET": 143533, "MEMORY_REFLECT": 140, "MEMORY_RETRIEVE": 1680, "MEMORY_WRITE": 58535, "METABOLISM": 1577, "MONEY_BURNED": 40, "MONEY_MINTED": 3, "MSG_DM": 163, "MSG_GROUP": 8, "MSG_PUBLIC": 59, "NARRATIVE": 20, "NEED_UPDATE": 3399, "NORM_ADOPTED": 19, "NORM_PROPOSED": 19, "OBSERVATION": 58240, "OFFER_ACCEPTED": 240, "OFFER_COUNTERED": 10, "OFFER_CREATED": 124, "OFFER_EXPIRED": 94, "OFFER_REJECTED": 11, "PENALTY_APPLIED": 1, "PLACE_ARRIVED": 511, "PLACE_MOVE": 511, "PRODUCE": 167, "RANKING_EMITTED": 10, "RELATION_CHANGE": 16719, "RELATION_ENCOUNTER": 210, "REVIVE_FEE_PAID": 5, "ROLE_CHANGE": 9, "SCHEDULE_PLANNED": 20, "SCORE_POSTED": 80, "SERVICE_DELIVERED": 149, "SKILL_LEVEL_UP": 79, "SKILL_OUTPUT": 10, "SKILL_PRACTICE": 77, "SLEEP_COMPLETED": 140, "SLEEP_STARTED": 140, "STATE_CHANGE": 94, "TAG_EMITTED": 540, "TAX_LEVIED": 46, "TIME_MARK": 7, "TRANSFER": 31, "TURN_SEAL": 84, "WORLD_DIRECTIVE": 1, "WORLD_GROUP_EVENT": 1, "WORLD_INIT": 1}}, "D": {"tag": "D", "override": {"policy": {"wake": {"enabled": true}}}, "events": 304452, "llm_calls": 4718, "cached": 4180, "providers": {"openai_compat": 4718}, "fingerprint": "sha256:f378d5d3eb0d4e726c9436d9ed82cc88706b441a3109e2fbb5878c6cf30afdf7", "secs": 2815.3, "state_hash": "sha256:51555fe052cb15f4fb6377681602831b4a4b69de1a69b6bf697637da10daa067", "chain_ok": true, "replay_parity": true, "WORLD_DIRECTIVE": 1, "WORLD_GROUP_EVENT": 1, "PERSONA_DRIFT": 0, "MEMORY_FORGET": 145642, "WAKE": 1294, "IDLE": 84, "type_counts": {"ACTIVITY_COMPLETED": 540, "ACTIVITY_STARTED": 560, "AGENT_BORN": 20, "AGENT_DIED": 17, "AGENT_REVIVED": 6, "CONFLICT_RESOLVED": 44, "CONFLICT_STARTED": 44, "CONSUME": 166, "DEPOSIT": 18, "DROPPED": 2848, "EXCHANGE_SETTLED": 7, "GOAL_ACHIEVED": 28, "GOAL_PROGRESS": 250, "GOAL_SET": 39, "GROUP_CREATED": 69, "IDLE": 84, "INIT_ENDOW": 38, "INTENT_REJECTED": 37, "INTEREST_CHARGED": 222, "LLM_CALL": 4718, "LLM_JUDGMENT": 1020, "LOAN_DEFAULT": 8, "LOAN_ISSUED": 18, "LOAN_REPAY": 38, "MARKET_TRADE": 23, "MEMORY_CONSOLIDATE": 2782, "MEMORY_FORGET": 145642, "MEMORY_REFLECT": 140, "MEMORY_RETRIEVE": 1265, "MEMORY_WRITE": 58350, "METABOLISM": 1587, "MONEY_BURNED": 38, "MONEY_MINTED": 3, "MSG_DM": 163, "MSG_GROUP": 11, "MSG_PUBLIC": 59, "NARRATIVE": 20, "NEED_UPDATE": 3399, "NORM_ADOPTED": 19, "NORM_PROPOSED": 19, "OBSERVATION": 58091, "OFFER_ACCEPTED": 73, "OFFER_COUNTERED": 10, "OFFER_CREATED": 40, "OFFER_EXPIRED": 23, "OFFER_REJECTED": 11, "PLACE_ARRIVED": 511, "PLACE_MOVE": 511, "PRODUCE": 166, "RANKING_EMITTED": 10, "RELATION_CHANGE": 17631, "RELATION_ENCOUNTER": 210, "REVIVE_FEE_PAID": 6, "ROLE_CHANGE": 9, "SCHEDULE_PLANNED": 20, "SCORE_POSTED": 80, "SERVICE_DELIVERED": 149, "SKILL_LEVEL_UP": 79, "SKILL_OUTPUT": 10, "SKILL_PRACTICE": 77, "SLEEP_COMPLETED": 140, "SLEEP_STARTED": 140, "STATE_CHANGE": 91, "TAG_EMITTED": 540, "TAX_LEVIED": 46, "TIME_MARK": 7, "TRANSFER": 31, "TURN_SEAL": 84, "WAKE": 1294, "WORLD_DIRECTIVE": 1, "WORLD_GROUP_EVENT": 1, "WORLD_INIT": 1}}}, "notes": ["口径② = 【分进程】复跑；t310 = 权威（该口径的正确仪器），t292 = 参考（被 T310 取代）。", "C 仅 t292 有（t292 那次 C 未被真正关掉 ⇒ C≡A，机制缺口已修 T297b）；t310 无 C。", "t310 与 t292 的 A/B 绝对值不可直接比：树 63c200a ≠ 8680737，A 301,332→292,141 的差是【树前进】(T298 行为变)，非装置；两处 B−A 都 = −2（这才是稳健结论）。别把绝对值变小当性能/装置收益。"]}, "sha": "1066fc3", "file_shas": {"report": "9b8fcbb4aec9b034", "t310": "3872c37420c41592", "t292": "9bab9d542cab9b90"}};
 let CAL = (new URLSearchParams(location.search).get("cal")==="d2") ? "d2" : "d1";
 function esc(s){return String(s).replace(/[&<>]/g,c=>({"&":"&amp;","<":"&lt;",">":"&gt;"}[c]));}
 function fmt(n){return (n==null)?"—":Number(n).toLocaleString("en-US");}
@@ -65,7 +65,10 @@ function render(){
    ? "当前口径：" + DATA.d1.label + "（" + DATA.d1.runtime + "）"
    : "当前口径：" + DATA.d2.label;
  document.getElementById("foot").innerHTML =
-   "数据源：<code>"+esc(CAL==="d1"?DATA.d1.source:DATA.d2.source)+"</code> · 证据 sha <b>"+esc(DATA.sha)+"</b> · 只读证据、不改世界层 · 结论不超出早报/证据";
+   (CAL==="d1"
+     ? "数据源：<code>"+esc(DATA.d1.source)+"</code> · <b>源文件 sha256(前16) "+esc(DATA.file_shas.report)+"</b>"
+     : "数据源(权威)：<code>"+esc(DATA.d2.source)+"</code> · <b>源文件 sha256(前16) "+esc(DATA.file_shas.t310)+"</b>；参考：<code>"+esc(DATA.d2.aux_source)+"</code> sha256(前16) "+esc(DATA.file_shas.t292))
+   + " · 页面生成时 HEAD <b>"+esc(DATA.sha)+"</b>（≠数据源版本）· 只读证据、不改世界层 · 结论不超出早报/证据";
  if(CAL==="d1") renderD1(); else renderD2();
 }
 function renderD1(){
@@ -88,18 +91,19 @@ function renderD1(){
  document.getElementById("notes").innerHTML = DATA.d1.notes.map(t=>"· "+esc(t)).join("<br/>");
 }
 function renderD2(){
- const g=DATA.d2.groups, A=g.A, keys=Object.keys(A.type_counts||{});
- const order=["A","B","C","D"].filter(k=>g[k]);
+ const g=DATA.d2.groups, aux=DATA.d2.aux||{}, A=g.A, keys=Object.keys(A.type_counts||{});
+ const order=["A","B","D"].filter(k=>g[k]);            // 主表=t310（分进程·权威）；t310 无 C
  const rows=order.map(k=>{const x=g[k];
    return `<tr><td><b>${k}</b> <span class="tag">${esc(Object.keys(x.override||{}).join(",")||"-")}</span></td>
    <td class="num">${fmt(x.events)}</td><td class="num">${fmt(x.llm_calls)}</td><td class="num">${fmt(x.cached)}</td>
    <td class="num">${x.secs!=null?(x.secs/60).toFixed(1)+"m":"—"}</td>
    <td class="mono">${esc((x.fingerprint||"").replace("sha256:","").slice(0,8))}</td>
-   <td class="mono">${esc((x.state_hash||"").replace("sha256:","").slice(0,8))}</td></tr>`;}).join("");
+   <td class="mono">${esc((x.state_hash||"").replace("sha256:","").slice(0,8))}</td></tr>`;}).join("")
+  + `<tr><td><b>C</b> <span class="tag warn">T310 未覆盖</span></td><td class="num">—</td><td class="num">—</td><td class="num">—</td><td class="num">—</td><td class="mono">—</td><td class="mono">—</td></tr>`;
  document.getElementById("tblwrap").innerHTML =
   `<table><thead><tr><th>组 / 开关</th><th>事件数</th><th>LLM_CALL</th><th>cached</th><th>耗时</th><th>指纹</th><th>state_hash</th></tr></thead><tbody>${rows}</tbody></table>
-   <div class="note">⚠ <b>C 零结果</b>：这次 <code>life_v2 sleep/forgetting=false</code> <b>没被真正关掉</b>（事件≈A）⇒ 机制缺口已修 <code>T297b</code>。此外<b>本口径未记录峰值 RSS</b>（JSON 无该字段）。</div>`;
- document.getElementById("diffhead").textContent = "事件类型差异（相对 A，按类型）· 口径②";
+   <div class="note">权威 = <code>${esc(DATA.d2.source)}</code>（口径②=分进程）。<b>C 未被 T310 覆盖</b>，故不填（<b>不拿 t292 的 C 去补</b>）。<b>本口径未记录峰值 RSS</b>（JSON 无该字段）。</div>`;
+ document.getElementById("diffhead").textContent = "事件类型差异（相对 A，按类型）· 口径②（t310）";
  const diffs=[];
  for(const k of order){ if(k==="A")continue; const x=g[k]; const arr=[];
    for(const t of keys){const a=A.type_counts[t]||0,b=x.type_counts[t]||0; if(b!==a) arr.push([t,a,b]);}
@@ -111,16 +115,17 @@ function renderD2(){
  }
  document.getElementById("diffs").innerHTML = diffs.join("");
  document.getElementById("concl").innerHTML =
-  `<div class="concl"><b>B 关世界导演</b>：WORLD_DIRECTIVE/GROUP 1→0（84 回合只介入 1 次）⇒ 旁白型。</div>
-   <div class="concl"><b>C 关三族</b>：<span class="bad">零结果</span>——本次未真正生效（事件≈A）；机制缺口已修 T297b。</div>
-   <div class="concl"><b>D 开双时钟</b>：WAKE 出现（${fmt((g.D.type_counts||{}).WAKE)}）；IDLE ${fmt((g.D.type_counts||{}).IDLE)}。</div>`;
- // t310 备注（同口径另一次复跑，不与主表混）
- const t=DATA.d2.t310, tk=Object.keys(t);
- const t310note = tk.length ? `<div class="note">同口径<b>另一次复跑</b>（<code>${esc(DATA.d2.t310_source)}</code>，不与上表混）：`+
-   tk.map(k=>`${k} ${fmt(t[k].events)}`).join(" · ")+` —— 各次事件数又不同（无 C），<b>印证跨批噪声</b>（与早报结论②一致）。</div>`:"";
+  `<div class="concl"><b>B 关世界导演</b>：WORLD_DIRECTIVE/GROUP 1→0（84 回合只介入 1 次）⇒ 旁白型；<b>B−A = −2</b>。</div>
+   <div class="concl"><b>D 开双时钟</b>：WAKE 出现（${fmt((g.D.type_counts||{}).WAKE)}）；IDLE ${fmt((g.D.type_counts||{}).IDLE)}。</div>
+   <div class="concl"><b>C</b>：<span class="warn">T310 未覆盖</span>（见备注）。</div>`;
+ // 备注：t292 = 参考（已被 T310 取代），标注不删
+ const auxk=Object.keys(aux);
+ const auxnote = auxk.length ? `<div class="note">参考/备注（<code>${esc(DATA.d2.aux_source)}</code>，<b>已被 T310 取代</b>；标注不删）：`+
+   auxk.map(k=>`${k} ${fmt(aux[k].events)}`).join(" · ")+`。历史事实：<b>t292 那次 C 未被真正关掉</b>（C≡A）⇒ 机制缺口已修 <code>T297b</code>（这是后来重跑确认的原因）。</div>`:"";
  document.getElementById("conclusions").innerHTML =
-  `<ol><li>共享同一 <code>freeze_cache</code> 的干净复跑：A/B/C 事件几乎相同（C 因未真正关掉而≈A），D 多出 WAKE/IDLE 路径。</li>
-   <li>同口径两次复跑（t292 vs t310）事件数仍不同 ⇒ 真 LLM 跨批噪声，与早报结论②一致。</li></ol>`+t310note;
+  `<ol><li>口径② = <b>分进程</b>复跑；<b>权威 = t310（A/B/D）</b>，<b>B−A = −2</b>（稳健结论）。</li>
+   <li>t292 与 t310 的 A/B 绝对值<b>不可直接比</b>：树 63c200a ≠ 8680737，A 301,332→292,141 的差是<b>树前进（T298 行为变）</b>，非装置——别把绝对值变小当收益。</li></ol>`+
+   `<div class="note">${(DATA.d2.notes||[]).map(esc).join("<br/>")}</div>`+auxnote;
  document.getElementById("notes").innerHTML = "";
 }
 renderSw(); render();

diff --git a/code/frontend/tools/gen_fourgroups.py b/code/frontend/tools/gen_fourgroups.py
@@ -11,7 +11,7 @@
 用法：python3 code/frontend/tools/gen_fourgroups.py
 """
 from __future__ import annotations
-import json, subprocess, sys
+import hashlib, json, subprocess, sys
 from pathlib import Path
 
 FRONTEND = Path(__file__).resolve().parents[1]
@@ -60,28 +60,47 @@ def load_json(p: Path):
     return json.loads(p.read_text(encoding="utf-8")) if p.exists() else {}
 
 
+def file_sha16(p: Path) -> str:
+    """数据源文件自身的 sha256 前 16 位（回答"数从哪个文件的哪个版本来"）。"""
+    try:
+        return hashlib.sha256(p.read_bytes()).hexdigest()[:16]
+    except Exception:
+        return "—"
+
+
 def main() -> int:
     t292 = load_json(EV / "t292_shared_results.json")
     t310 = load_json(EV / "t310_results.json")
     sha = head_sha()
-    html = _render(D1, t292, t310, sha)
+    file_shas = {
+        "report": file_sha16(EV / "nightly-20261012-morning-report.md"),
+        "t310": file_sha16(EV / "t310_results.json"),
+        "t292": file_sha16(EV / "t292_shared_results.json"),
+    }
+    html = _render(D1, t292, t310, sha, file_shas)
     out = FRONTEND / "fourgroups.html"
     out.write_text(html, encoding="utf-8")
-    print(f"wrote {out}  sha={sha}  D2_groups={sorted(t292.keys())}  D3(t310)={sorted(t310.keys())}")
+    print(f"wrote {out}  head={sha}  file_shas={file_shas}")
     return 0
 
 
-def _render(D1, t292, t310, sha) -> str:
+def _render(D1, t292, t310, sha, file_shas) -> str:
     payload = {
         "d1": D1,
         "d2": {
-            "label": "口径② · 10-13 00:38 共享 cache 干净复跑",
-            "source": "v2/evidence/t292_shared_results.json",
-            "groups": t292,
-            "t310_source": "v2/evidence/t310_results.json",
-            "t310": t310,
+            "label": "口径② · 10-13 干净复跑（分进程，权威=t310）",
+            "source": "v2/evidence/t310_results.json",
+            "groups": t310,
+            "aux_source": "v2/evidence/t292_shared_results.json",
+            "aux": t292,
+            "notes": [
+                "口径② = 【分进程】复跑；t310 = 权威（该口径的正确仪器），t292 = 参考（被 T310 取代）。",
+                "C 仅 t292 有（t292 那次 C 未被真正关掉 ⇒ C≡A，机制缺口已修 T297b）；t310 无 C。",
+                "t310 与 t292 的 A/B 绝对值不可直接比：树 63c200a ≠ 8680737，A 301,332→292,141 的差是【树前进】(T298 行为变)，非装置；两处 B−A 都 = −2（这才是稳健结论）。别把绝对值变小当性能/装置收益。",
+            ],
         },
         "sha": sha,
+        "file_shas": file_shas,
     }
     return HTML_TMPL.replace("/*__DATA__*/", json.dumps(payload, ensure_ascii=False))
 
@@ -153,7 +172,10 @@ function render(){
    ? "当前口径：" + DATA.d1.label + "（" + DATA.d1.runtime + "）"
    : "当前口径：" + DATA.d2.label;
  document.getElementById("foot").innerHTML =
-   "数据源：<code>"+esc(CAL==="d1"?DATA.d1.source:DATA.d2.source)+"</code> · 证据 sha <b>"+esc(DATA.sha)+"</b> · 只读证据、不改世界层 · 结论不超出早报/证据";
+   (CAL==="d1"
+     ? "数据源：<code>"+esc(DATA.d1.source)+"</code> · <b>源文件 sha256(前16) "+esc(DATA.file_shas.report)+"</b>"
+     : "数据源(权威)：<code>"+esc(DATA.d2.source)+"</code> · <b>源文件 sha256(前16) "+esc(DATA.file_shas.t310)+"</b>；参考：<code>"+esc(DATA.d2.aux_source)+"</code> sha256(前16) "+esc(DATA.file_shas.t292))
+   + " · 页面生成时 HEAD <b>"+esc(DATA.sha)+"</b>（≠数据源版本）· 只读证据、不改世界层 · 结论不超出早报/证据";
  if(CAL==="d1") renderD1(); else renderD2();
 }
 function renderD1(){
@@ -176,18 +198,19 @@ function renderD1(){
  document.getElementById("notes").innerHTML = DATA.d1.notes.map(t=>"· "+esc(t)).join("<br/>");
 }
 function renderD2(){
- const g=DATA.d2.groups, A=g.A, keys=Object.keys(A.type_counts||{});
- const order=["A","B","C","D"].filter(k=>g[k]);
+ const g=DATA.d2.groups, aux=DATA.d2.aux||{}, A=g.A, keys=Object.keys(A.type_counts||{});
+ const order=["A","B","D"].filter(k=>g[k]);            // 主表=t310（分进程·权威）；t310 无 C
  const rows=order.map(k=>{const x=g[k];
    return `<tr><td><b>${k}</b> <span class="tag">${esc(Object.keys(x.override||{}).join(",")||"-")}</span></td>
    <td class="num">${fmt(x.events)}</td><td class="num">${fmt(x.llm_calls)}</td><td class="num">${fmt(x.cached)}</td>
    <td class="num">${x.secs!=null?(x.secs/60).toFixed(1)+"m":"—"}</td>
    <td class="mono">${esc((x.fingerprint||"").replace("sha256:","").slice(0,8))}</td>
-   <td class="mono">${esc((x.state_hash||"").replace("sha256:","").slice(0,8))}</td></tr>`;}).join("");
+   <td class="mono">${esc((x.state_hash||"").replace("sha256:","").slice(0,8))}</td></tr>`;}).join("")
+  + `<tr><td><b>C</b> <span class="tag warn">T310 未覆盖</span></td><td class="num">—</td><td class="num">—</td><td class="num">—</td><td class="num">—</td><td class="mono">—</td><td class="mono">—</td></tr>`;
  document.getElementById("tblwrap").innerHTML =
   `<table><thead><tr><th>组 / 开关</th><th>事件数</th><th>LLM_CALL</th><th>cached</th><th>耗时</th><th>指纹</th><th>state_hash</th></tr></thead><tbody>${rows}</tbody></table>
-   <div class="note">⚠ <b>C 零结果</b>：这次 <code>life_v2 sleep/forgetting=false</code> <b>没被真正关掉</b>（事件≈A）⇒ 机制缺口已修 <code>T297b</code>。此外<b>本口径未记录峰值 RSS</b>（JSON 无该字段）。</div>`;
- document.getElementById("diffhead").textContent = "事件类型差异（相对 A，按类型）· 口径②";
+   <div class="note">权威 = <code>${esc(DATA.d2.source)}</code>（口径②=分进程）。<b>C 未被 T310 覆盖</b>，故不填（<b>不拿 t292 的 C 去补</b>）。<b>本口径未记录峰值 RSS</b>（JSON 无该字段）。</div>`;
+ document.getElementById("diffhead").textContent = "事件类型差异（相对 A，按类型）· 口径②（t310）";
  const diffs=[];
  for(const k of order){ if(k==="A")continue; const x=g[k]; const arr=[];
    for(const t of keys){const a=A.type_counts[t]||0,b=x.type_counts[t]||0; if(b!==a) arr.push([t,a,b]);}
@@ -199,16 +222,17 @@ function renderD2(){
  }
  document.getElementById("diffs").innerHTML = diffs.join("");
  document.getElementById("concl").innerHTML =
-  `<div class="concl"><b>B 关世界导演</b>：WORLD_DIRECTIVE/GROUP 1→0（84 回合只介入 1 次）⇒ 旁白型。</div>
-   <div class="concl"><b>C 关三族</b>：<span class="bad">零结果</span>——本次未真正生效（事件≈A）；机制缺口已修 T297b。</div>
-   <div class="concl"><b>D 开双时钟</b>：WAKE 出现（${fmt((g.D.type_counts||{}).WAKE)}）；IDLE ${fmt((g.D.type_counts||{}).IDLE)}。</div>`;
- // t310 备注（同口径另一次复跑，不与主表混）
- const t=DATA.d2.t310, tk=Object.keys(t);
- const t310note = tk.length ? `<div class="note">同口径<b>另一次复跑</b>（<code>${esc(DATA.d2.t310_source)}</code>，不与上表混）：`+
-   tk.map(k=>`${k} ${fmt(t[k].events)}`).join(" · ")+` —— 各次事件数又不同（无 C），<b>印证跨批噪声</b>（与早报结论②一致）。</div>`:"";
+  `<div class="concl"><b>B 关世界导演</b>：WORLD_DIRECTIVE/GROUP 1→0（84 回合只介入 1 次）⇒ 旁白型；<b>B−A = −2</b>。</div>
+   <div class="concl"><b>D 开双时钟</b>：WAKE 出现（${fmt((g.D.type_counts||{}).WAKE)}）；IDLE ${fmt((g.D.type_counts||{}).IDLE)}。</div>
+   <div class="concl"><b>C</b>：<span class="warn">T310 未覆盖</span>（见备注）。</div>`;
+ // 备注：t292 = 参考（已被 T310 取代），标注不删
+ const auxk=Object.keys(aux);
+ const auxnote = auxk.length ? `<div class="note">参考/备注（<code>${esc(DATA.d2.aux_source)}</code>，<b>已被 T310 取代</b>；标注不删）：`+
+   auxk.map(k=>`${k} ${fmt(aux[k].events)}`).join(" · ")+`。历史事实：<b>t292 那次 C 未被真正关掉</b>（C≡A）⇒ 机制缺口已修 <code>T297b</code>（这是后来重跑确认的原因）。</div>`:"";
  document.getElementById("conclusions").innerHTML =
-  `<ol><li>共享同一 <code>freeze_cache</code> 的干净复跑：A/B/C 事件几乎相同（C 因未真正关掉而≈A），D 多出 WAKE/IDLE 路径。</li>
-   <li>同口径两次复跑（t292 vs t310）事件数仍不同 ⇒ 真 LLM 跨批噪声，与早报结论②一致。</li></ol>`+t310note;
+  `<ol><li>口径② = <b>分进程</b>复跑；<b>权威 = t310（A/B/D）</b>，<b>B−A = −2</b>（稳健结论）。</li>
+   <li>t292 与 t310 的 A/B 绝对值<b>不可直接比</b>：树 63c200a ≠ 8680737，A 301,332→292,141 的差是<b>树前进（T298 行为变）</b>，非装置——别把绝对值变小当收益。</li></ol>`+
+   `<div class="note">${(DATA.d2.notes||[]).map(esc).join("<br/>")}</div>`+auxnote;
  document.getElementById("notes").innerHTML = "";
 }
 renderSw(); render();

diff --git a/v2/evidence/T343-fourgroups.md b/v2/evidence/T343-fourgroups.md
@@ -15,3 +15,13 @@
 ## 门禁/自证
 - `shot.py` 新增 `--full-page`（整页截图）与 `--no-blank-check`（**非小镇画布的普通页面**：深色/大色块会被非空白判据误判），非空白判据默认不变。
 - `make ci` → PASS（见提交）。
+
+---
+
+## 修订 v2（依 Leader 10:05 裁决 + obs 权威判定）
+1. **口径②主表换 `t310_results.json`**（A/B/D；**权威=分进程**）；**C 标「T310 未覆盖」**（不拿 t292 的 C 去补）。
+2. **`t292` 降为参考/备注**，显式标「**已被 T310 取代**」（**标注不删**）。
+3. 保留历史注脚：「**t292 那次 C 未被真正关掉（C≡A），机制缺口已修 T297b**」。
+4. **页脚 sha 文案修正**：分别标**数据源文件自身 sha256(前16)**（口径①→早报 `9b8fcbb4aec9b034`；口径②→t310 `3872c37420c41592`、参考 t292 `9bab9d542cab9b90`）+ 「**生成时 HEAD**（≠数据源版本）」。
+5. **重出两张 PNG**（旧两张作废）。
+6. 口径②注记：**绝对值不可直接比**（树 63c200a≠8680737，A 301,332→292,141 是树前进/T298 行为变，非装置；**两处 B−A 都=−2**）。
